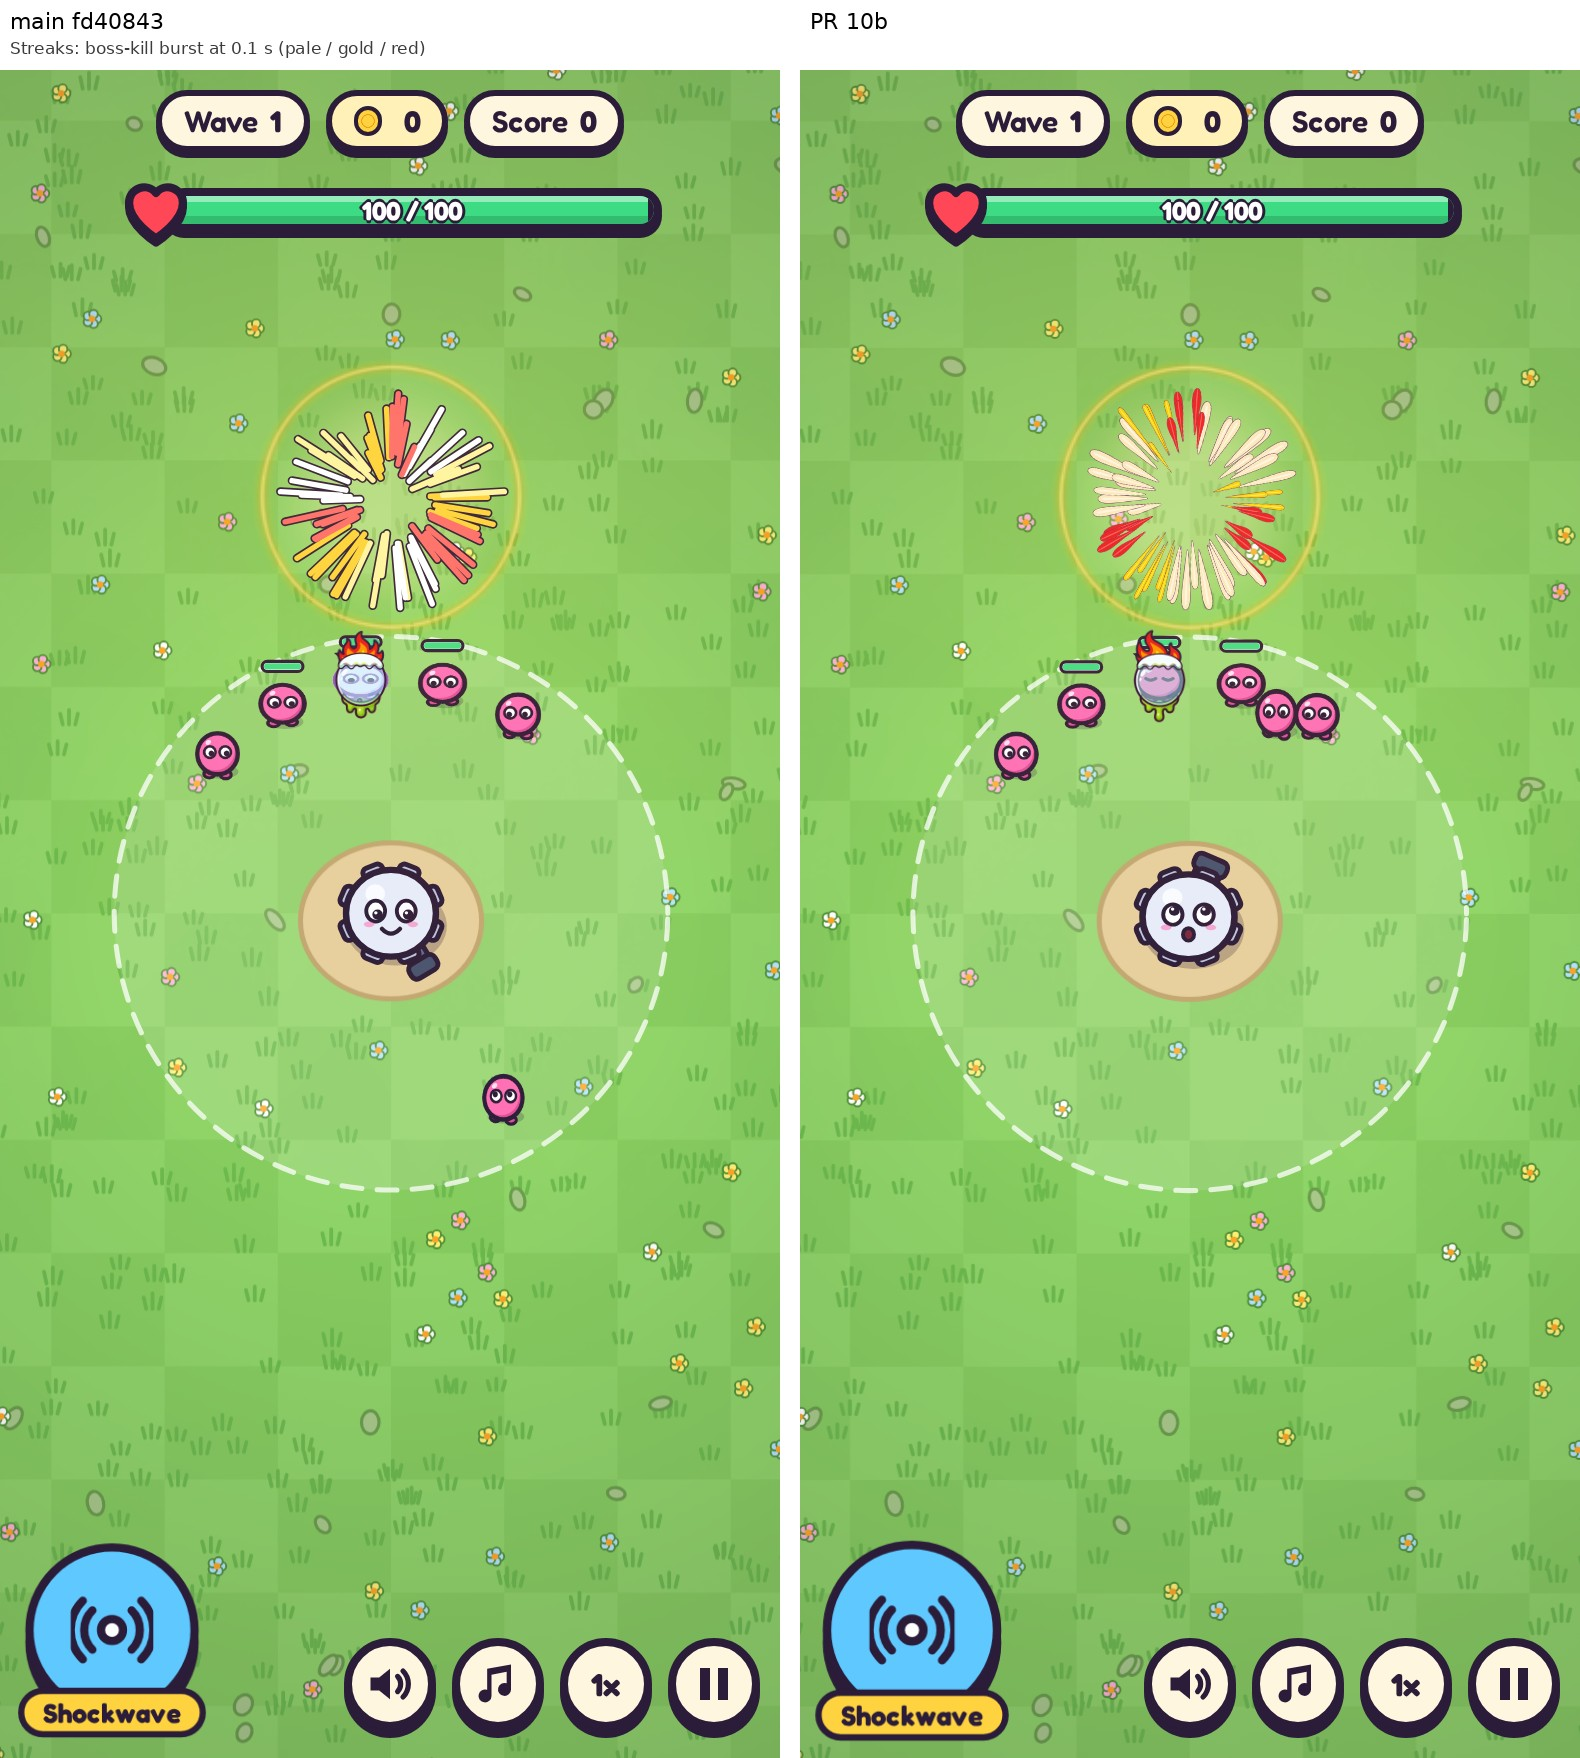
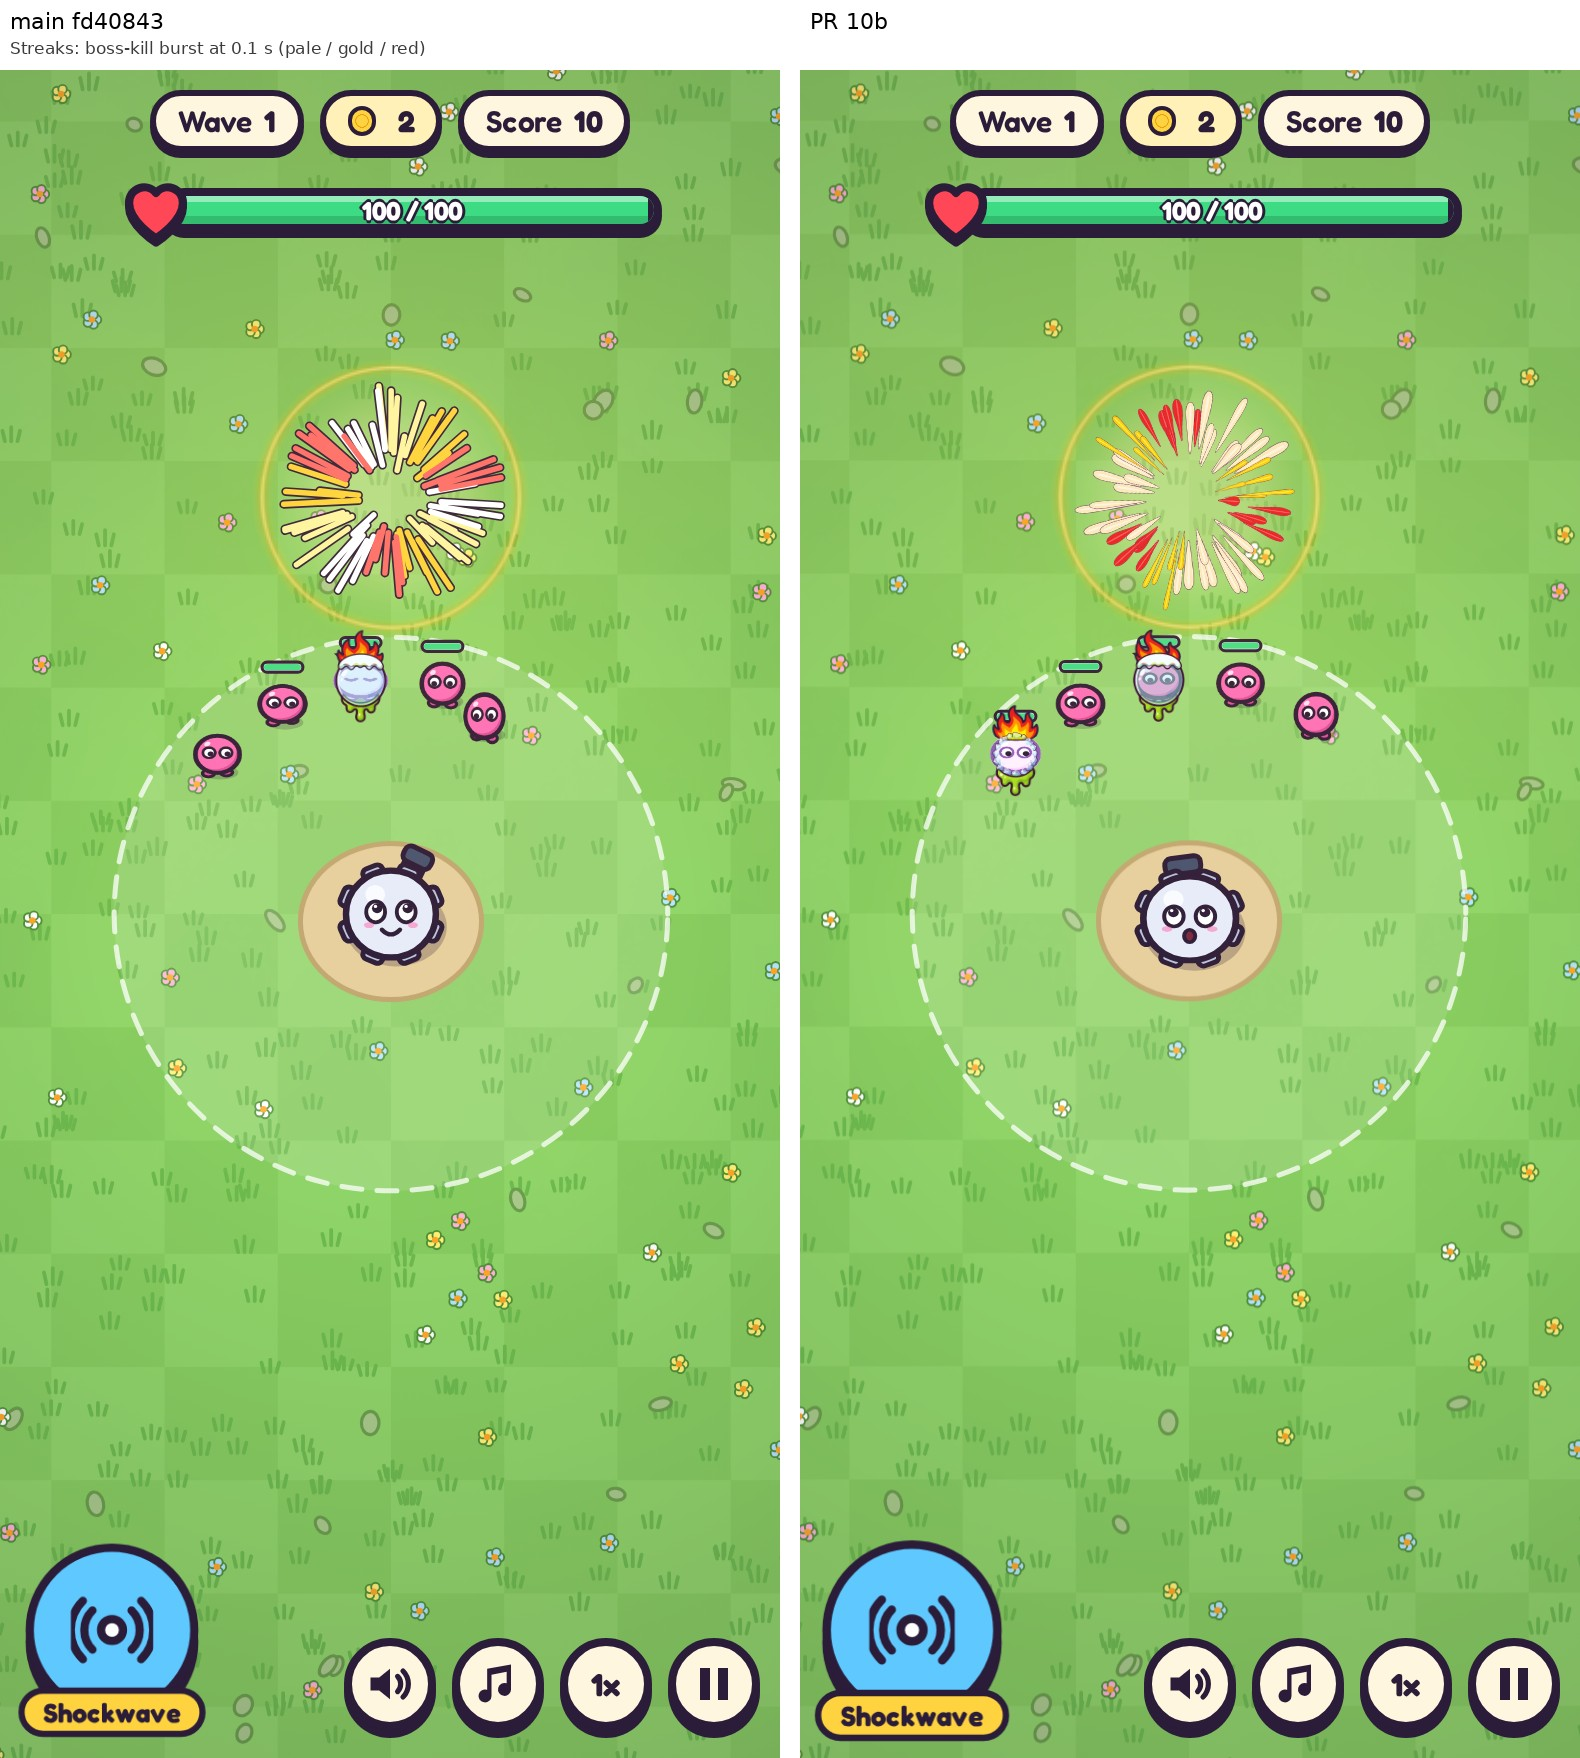
PR 10b: streak_lime (Game Art v1, 12:35 PM ET) for venom bursts: lime, lime, green (main's pale lime, lime, green); fx-test covers its hash, size and the venom mapping; shots refreshed (04b, 07 with lime, venom zoom)

diff --git a/tools/fx-test.js b/tools/fx-test.js
@@ -91,7 +91,7 @@ class FxTest {
     // trails keep the head-at-right pivot; the vignettes and the dim fill the screen.
     const png = (f) => { const b = fs.readFileSync(path.join(this.root, "assets/fx", f)); return [b.readUInt32BE(16), b.readUInt32BE(20)]; };
     const B = { motes: ["motes", 256, 32, 8], vignette_red: ["vignette", 720, 1560, 1], vignette_dark: ["vignette", 720, 1560, 1] };
-    for (const v of ["pale", "gold", "amber", "red", "pink", "cyan", "green", "soot"]) B["streak_" + v] = ["streak", 192, 16, 3];
+    for (const v of ["pale", "gold", "amber", "red", "pink", "cyan", "green", "lime", "soot"]) B["streak_" + v] = ["streak", 192, 16, 3];
     for (const v of ["base", "ember", "frost", "spark", "venom"]) B["trail_" + v] = ["trail", 128, 24, 1];
     const bad10b = Object.entries(B).filter(([id, [dir, w, h, n]]) => {
       const rel = data.sheets[id], j = rel && JSON.parse(this.read("assets/fx/" + rel)), f = j && dir + "/" + j.image, wh = f && png(f);
@@ -103,6 +103,10 @@ class FxTest {
     const fills = ["lowHpVignette:vignette_red", "finaleDim:vignette_dark"].filter((x) => { const [k, sh] = x.split(":"); return data.effects[k].sheet !== sh || data.effects[k].fit !== "fill"; });
     this.ok(!bad10b.length && !moteBad.length && cells.length === 8 && !fills.length,
       `art 10b: ${Object.keys(B).length} delivered v1 sheets at their delivered sizes with head-right pivots (bad: ${bad10b.join(", ") || "none"}); mote.<v> plays the motes cell named v (bad: ${moteBad.join(", ") || "none"}); lowHpVignette / finaleDim fill the screen with vignette_red / vignette_dark (bad: ${fills.join(", ") || "none"})`);
+    // Venom bursts (main: pale lime #e4ffb8, lime #b4f06a, green #8be04a) play streak_lime twice and green once (Game Art streak_lime, Nov 16).
+    const ven = data.impacts.elemVenom && data.impacts.elemVenom.colors;
+    this.ok(String(ven) === "lime,lime,green" && data.effects["streak.lime"] && data.effects["streak.lime"].sheet === "streak_lime" && prov["streak/streak_lime.png"],
+      `art 10b: the venom burst plays lime, lime, green (main's pale lime, lime, green) through streak.lime / streak_lime (got ${ven})`);
     const IMP = ["space", "burst", "colors", "radius", "bloomAlpha", "flash", "shake", "thump"];
     const imps = Object.entries(data.impacts), routes = Object.values(LST.FX_ROUTES).filter(Boolean);
     this.ok(imps.length >= 12 && imps.every(([, i]) => data.effects[i.ring] && data.effects[i.bloom] && IMP.every((k) => i[k] != null) && i.burst.count > 0) && routes.every((r) => data.impacts[r]),

diff --git a/docs/qa/pr10b/shots.py b/docs/qa/pr10b/shots.py
@@ -58,13 +58,13 @@ with sync_playwright() as p:
         run(n)
         shot("06-bosskill-flash-f%02d" % n, "Boss-kill flash: real mini-boss kill, %d frames after (%d ms); white X13 fill on main, amber screen_burst on 10b" % (n, round(n * 1000 / 60)), "() => ({ flash: game.flash })")
         shots[-1].append(info)
-    # 7. each streak variant: 8 bursts of 10 (2 x 4 grid), at 5 frames (fresh) and 14 frames (mid / fade)
+    # 7. each streak variant: 9 bursts of 10 (rows of 4), at 5 frames (fresh) and 14 frames (mid / fade)
     EACH = """(n) => { const fx = LST.fxDirector, t = game.tower, I = fx.impacts, pre = LST.FX_PRESETS ? LST.FX_PRESETS.streakBurst : LST.fxManifest.preset('streakBurst');
-      const V = [["pale", "#fff3a0"], ["gold", "#ffd23f"], ["amber", "#ffb347"], ["red", "#ff6b6b"], ["pink", "#ff7ac8"], ["cyan", "#7fe3ff"], ["green", "#8be04a"], ["soot", "#3a1200"]];
+      const V = [["pale", "#fff3a0"], ["gold", "#ffd23f"], ["amber", "#ffb347"], ["red", "#ff6b6b"], ["pink", "#ff7ac8"], ["cyan", "#7fe3ff"], ["green", "#8be04a"], ["lime", "#b4f06a"], ["soot", "#3a1200"]];
       V.forEach(([v, hex], i) => LST.Emitter.burst(fx.pools.world, I.rng, pre, t.x - 150 + (i % 4) * 100, t.y - 520 + ((i / 4) | 0) * 190, { count: 10, speedMul: 0.6, colors: [LST.FX_PRESETS ? hex : v], priority: true })); }"""
     for n in (5, 14):
         clear(); pg.evaluate(EACH, 0); step(n)
-        shot("07-streaks-each-f%02d" % n, "Each streak variant, %d frames: top row pale, gold, amber, red; lower row pink, cyan, green, soot (main: the hex each replaced)" % n, "() => ({ particles: LST.fxDirector.pools.world.count })")
+        shot("07-streaks-each-f%02d" % n, "Each streak variant, %d frames: row 1 pale, gold, amber, red; row 2 pink, cyan, green, lime; row 3 soot (main: the hex each replaced)" % n, "() => ({ particles: LST.fxDirector.pools.world.count })")
     # 8. each trail on its own: no element (base), then one element at a time, game running 75 frames
     for name, el in (("base", None), ("ember", "ember"), ("frost", "frostbite"), ("spark", "chainSpark"), ("venom", "venom")):
         clear()

diff --git a/docs/OO-MIGRATION.md b/docs/OO-MIGRATION.md
@@ -322,7 +322,7 @@ Rows 9-13 as asked of Game Art & Motion for PR 10b on Nov 16 (the "more subtlety
 
 Text glows (X8) reuse #7 gold and amber. 10a shipped 27 PNGs (rows 1-8); 10b asks for 16 more (rows 9-13: 1 atlas, 8 streaks, 5 trails, 2 vignettes).
 
-Rows 9-13 delivered Nov 16 (12:10 PM ET, v1, 16 PNGs, `assets/fx/{motes,streak,trail,vignette}/`). Known gaps Game Art flagged, judged at play size in `docs/qa/pr10b/`: cyan streak frames have no width step, soot fade 81%, gold / amber fill 63% / 88% of the height, a faint streak outline; vignette_red top / bottom middles 0.21-0.28 and side middles about 0.02; trail cores 58-72% of the band, base and spark cores low in contrast. Not asked: a lime streak (the main venom burst's light colour); venom bursts use green x3.
+Rows 9-13 delivered Nov 16 (12:10 PM ET, v1, 16 PNGs, plus `streak_lime` at 12:35 PM ET; `assets/fx/{motes,streak,trail,vignette}/`). Known gaps Game Art flagged, judged at play size in `docs/qa/pr10b/`: cyan streak frames have no width step, soot fade 81%, gold / amber fill 63% / 88% of the height, a faint streak outline; vignette_red top / bottom middles 0.21-0.28 and side middles about 0.02; trail cores 58-72% of the band, base and spark cores low in contrast. Added at 12:35 PM ET: `streak_lime` (v1, `#c8ec5a`, painted about 2 px thick against 4-5 px for the others): venom bursts play lime, lime, green (main's pale lime `#e4ffb8`, lime `#b4f06a`, green `#8be04a`).
 
 ---
 
@@ -357,7 +357,7 @@ Each PR ships on its own. Each one needs:
    - Objects: no new drawing code. Every look is an `fx.json` entry played by the generic `SpriteEffect`; the drawers only place them. `ParticleBatch` plays `glow.<v>`, `mote.<v>` (one cell of the `motes` atlas, by the atlas's own `cells` names) and `streak.<v>` (fresh / mid / fade frame by age, stretched along the velocity, head on the particle). `ProjectileTrails` plays `trail.<v>` behind each shot plus `glow.<v>`. `OverlayLayer` plays `lowHpVignette` (`vignette_red`, stretched over the screen, alpha = the old vignette level) and `screenFlash` (`screen_burst`, replacing the X13 white fill). `HudCanvasLayer` plays `finaleDim` (`vignette_dark`, fading in over 0.5 s).
    - Data: `fx.json` gains `presets` (streakBurst, aura, trail, glow, ring), `impacts` (burst, variant colours, radius, bloom, flash, shake, thump, sfx, joined to the 10a ring / bloom ids) and `themes` (blend, glow, trail opacity); `glowColors` and `FxRenderer.glow` are gone. `FxPresets.js` keeps only `FX_ROUTES` and `FX_QUALITY`. Elements name a `trail` (ember, frost, spark, venom); `ElementRegistry.shotTrail` sets `p.trail`.
    - New `SpriteEffect` settings: fit `stretch` (segment at height = size x base) and `fill` (over the caller's x, y, w, h), a fixed `frame`, the caller's `blend`; `FxManifest` reads a sheet's `pivot` as its anchor (streak and trail heads sit at the right end).
-   - Art: Game Art & Motion PR10b v1 (section G rows 9-13, Nov 16): `motes`, `streak_<pale, gold, amber, red, pink, cyan, green, soot>`, `trail_<base, ember, frost, spark, venom>`, `vignette_red`, `vignette_dark`, byte-identical (sha256 in `assets/fx/PROVENANCE.json`, merged under `_about.pr10b`; LICENSE and PIPELINE appended). 0 near-white pixels.
+   - Art: Game Art & Motion PR10b v1 (section G rows 9-13, Nov 16): `motes`, `streak_<pale, gold, amber, red, pink, cyan, green, lime, soot>` (lime added at 12:35 PM ET for venom bursts), `trail_<base, ember, frost, spark, venom>`, `vignette_red`, `vignette_dark` (17 PNGs), byte-identical (sha256 in `assets/fx/PROVENANCE.json`, merged under `_about.pr10b`; LICENSE and PIPELINE appended). 0 near-white pixels.
    - Sizes matched to main at 390x844: trails `height` 20, `stretch` 0.075, `maxLength` 72 (the art's band fills 26-47% of its frame and fades over its back half, so main's 9 px x 0.05 s stroke needed a taller, longer draw to show the same visible tail); the vignettes are drawn at alpha 1 because their opacity is painted in (red corners 0.75 = main's maximum, dark mean 0.45 = main's dim).
    - Tests: `tools/fx-test.js` (impact settings, variant coverage, no colour literals in presets / impacts / themes, the 10b art at its delivered sizes and pivots with `mote.<v>` on the cell named v), `tools/fx-art-scan.js` (ParticleBatch, ProjectileTrails, OverlayLayer, HudCanvasLayer draw no shapes or colours), `tools/render-test.js` (particle calls across 4 themes x 2 qualities), `tools/fx-acceptance-test.py` (streak and trail fixtures). Shots: `docs/qa/pr10b/`.
    - Also in 10b: the screen-snapshot flake fix (`tools/screen-snapshot-test.py`): the music scheduler in `audio.js` draws `Math.random()` on a timer, and the test reseeded and ran each step in two browser calls, so a music tick could land between them in one tree and change the card deal. The reseed and the step now run in one call; a `SNAPSHOT_RACE_MS` wait before each step (default 150) keeps the race open so the check stays honest.
